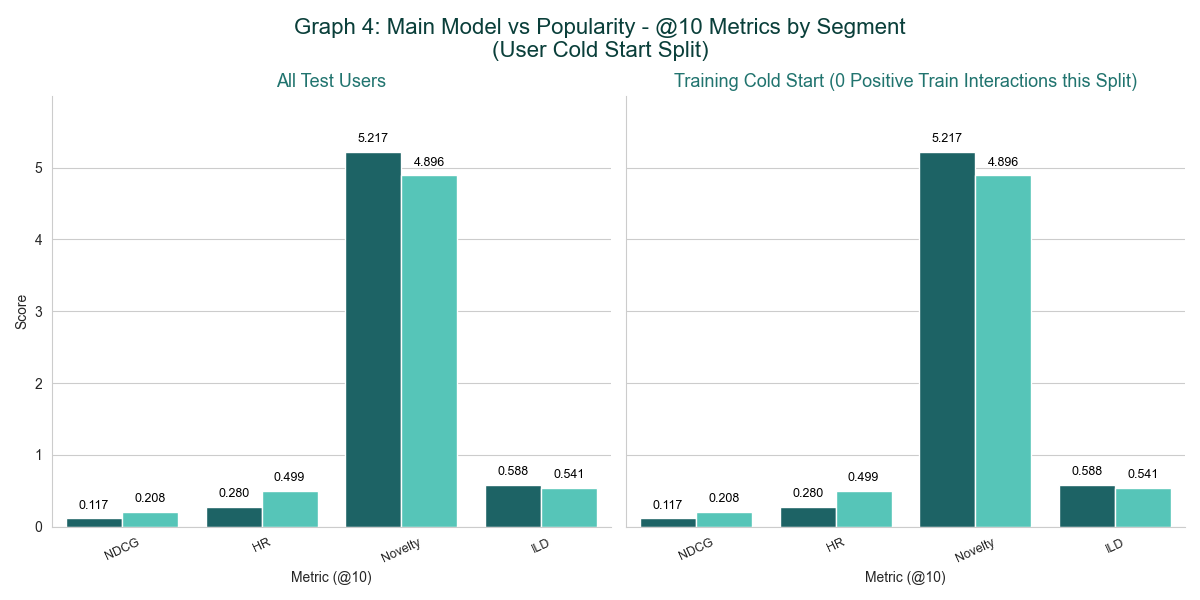
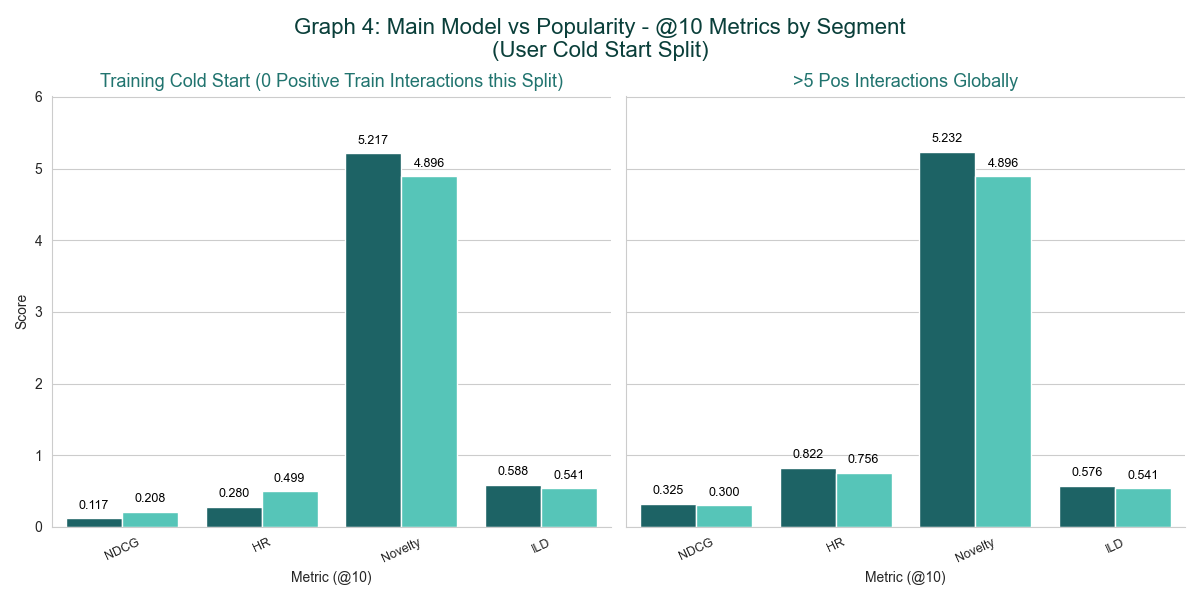
Final changes to graphing script.

diff --git a/models/fnb/tt_trans_neg.py b/models/fnb/tt_trans_neg.py
@@ -594,9 +594,7 @@ def main():
         train_user_ids = train_df[USER_ID_COL].unique() if not train_df.empty else np.array([])
         val_user_ids = val_df_gt[USER_ID_COL].unique() if not val_df_gt.empty else np.array([])
         test_user_ids = test_df_gt[USER_ID_COL].unique() if not test_df_gt.empty else np.array([])
-        # Ensure all users in val/test also exist in train for true temporal sequential eval
-        # This is implicitly handled by how InteractionDataset and evaluate_model work with user features
-        # as long as global_user_features_tensor covers all users.
+       
     else: raise ValueError(f"Unknown split_strategy: {CONFIG['split_strategy']}")
 
     print(f"Data split: Train users: {len(train_user_ids)}, Val users: {len(val_user_ids)}, Test users: {len(test_user_ids)}")

diff --git a/experiments/graph_results.py b/experiments/graph_results.py
@@ -218,7 +218,7 @@ def plot_graph_4(df):
     title = "Graph 4: Main Model vs Popularity - @10 Metrics by Segment\n(User Cold Start Split)"
     metrics_to_plot = ["NDCG", "HR", "Novelty", "ILD"] # These are assumed to be @10 from context
     models_to_plot = ["Main Model", "Popularity Baseline"]
-    segments_to_plot = ["All Test Users", "Training Cold Start (0 Positive Train Interactions this Split)"]
+    segments_to_plot = [ "Training Cold Start (0 Positive Train Interactions this Split)", ">5 Pos Interactions Globally"]
     split_to_use = 'User Cold-Start' 
     
     # Filter data
